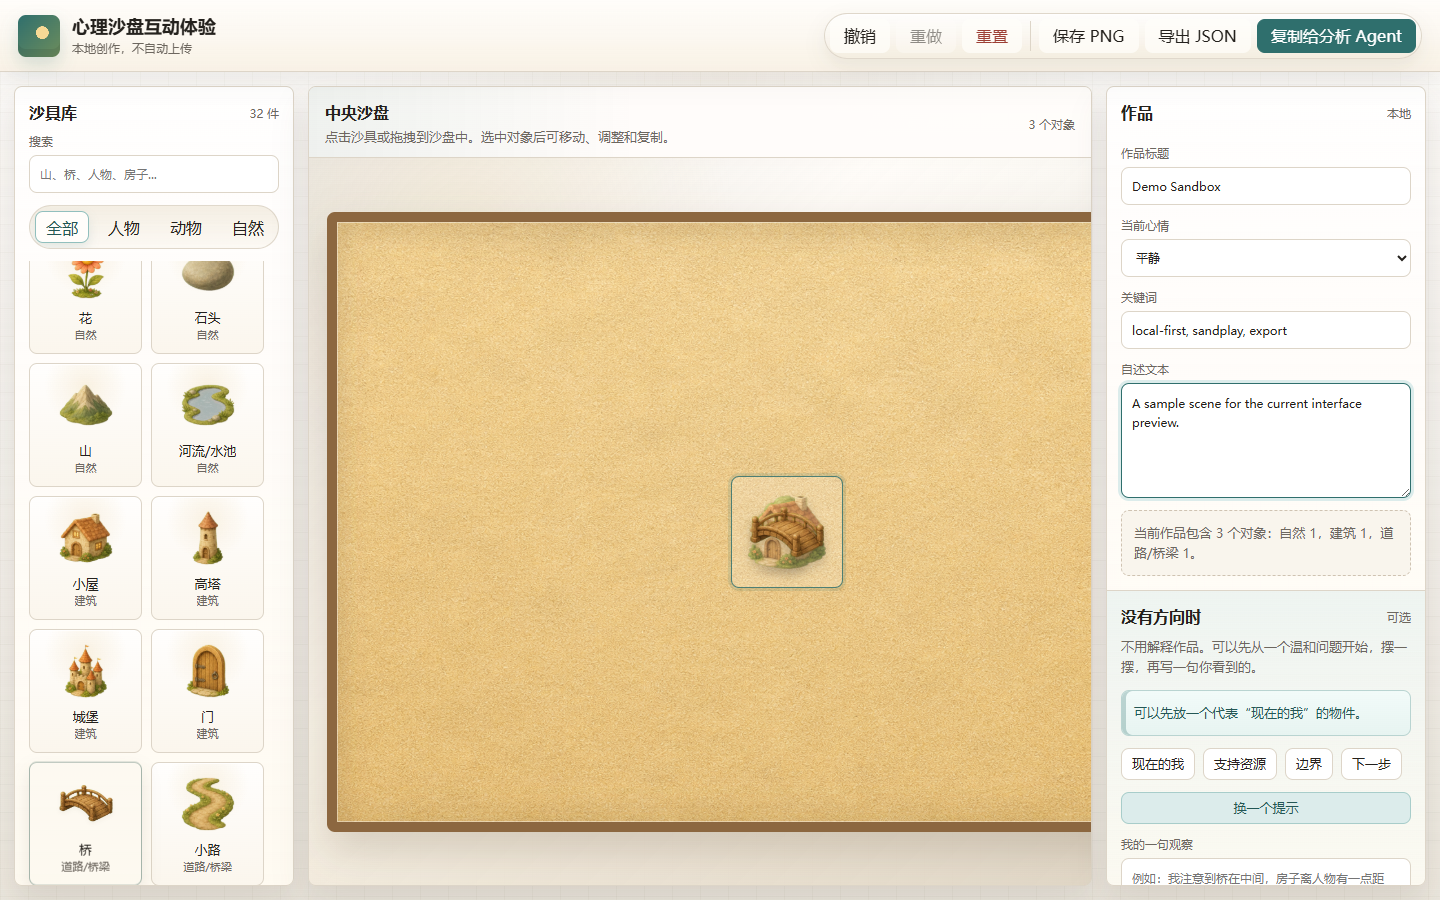
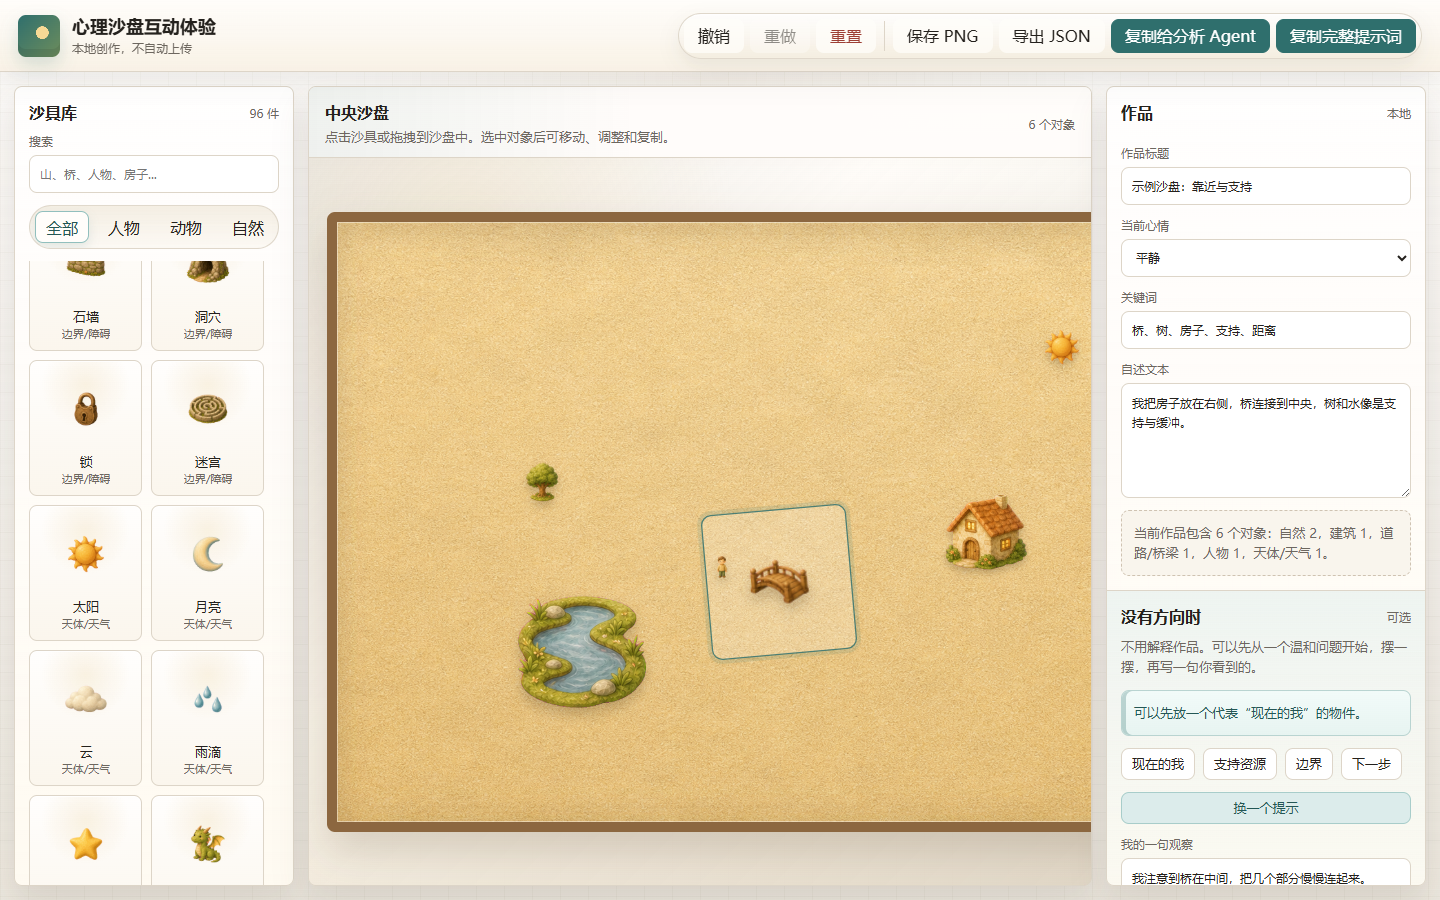
docs: update README usage guide

diff --git a/README.md b/README.md
@@ -1,31 +1,32 @@
 # 心理沙盒
 
-一个本地运行的心理沙盘互动体验。用户可以在浏览器中选择、拖拽和摆放沙具，记录作品标题、当前心情、关键词与自述文本，并主动导出 PNG 截图、JSON 布局、复制给分析 Agent 的提交文本或复制完整提示词。
+一个可以直接在本地浏览器运行的心理沙盘互动工具。你可以选择沙具、拖拽摆放、记录当下感受，然后把沙盘截图和提示词一起交给 GPT、ChatGPT 或其他支持图片理解的 AI，获得一份非诊断式的观察与反思引导。
 
 > 本项目用于自我表达、情绪觉察和心理教育场景，不提供心理诊断、心理治疗、医疗建议或危机干预。
 
 ![心理沙盒界面预览](./sandplay-wide-optimized.png)
 
-## 项目特点
+## 最简单的使用方法
 
-- 本地单页应用：不需要后端服务，不需要数据库。
-- 虚拟沙盘创作：支持沙具分类筛选、搜索、点击添加和拖拽添加。
-- 沙具编辑：支持移动、缩放、旋转、翻转、复制、删除、置顶和置底。
-- 作品记录：支持填写标题、心情、关键词、自述文本和一句观察。
-- 主动导出：支持保存沙盘 PNG、导出 JSON、复制分析 Agent 文本、复制完整提示词。
-- 隐私优先：页面不会自动上传截图、文本或布局数据。
+![心理沙盒使用流程](./sandplay-interactive/docs/readme-workflow.svg)
 
-## 快速开始
+1. 双击打开 `sandplay-interactive/index.html`。
+2. 在浏览器里摆放沙具，并按需填写作品标题、当前心情、关键词和自述文本。
+3. 点击顶部工具栏的 `保存 PNG`，下载沙盘截图。
+4. 点击 `复制完整提示词`。如果你已经有自己的分析提示词，也可以点击 `复制给分析 Agent`。
+5. 打开 GPT、ChatGPT 或其他支持图片理解的 AI，把 PNG 图片上传，并把复制的提示词粘贴进去发送。
 
-项目主体位于 `sandplay-interactive/`。
+整个过程都在本地完成。网页不会自动上传截图、文字或布局数据。
 
-最简单的方式是直接用浏览器打开：
+## 如何运行
+
+推荐方式：直接双击打开：
 
 ```text
 sandplay-interactive/index.html
 ```
 
-也可以启动一个本地静态服务器：
+如果浏览器限制本地文件读取，或你想用本地静态服务运行：
 
 ```bash
 cd sandplay-interactive
@@ -38,50 +39,67 @@ python -m http.server 8000
 http://localhost:8000
 ```
 
-## 使用方法
+当前应用没有构建步骤，不需要后端服务、不需要数据库，也不需要 OpenAI API Key。
 
-1. 打开页面后阅读欢迎弹窗中的玩法说明和安全边界。
-2. 在左侧沙具库中选择分类，或通过搜索找到需要的沙具。
-3. 点击沙具或将沙具拖拽到中央沙盘。
-4. 选中沙盘中的物件后，可在右侧调整名称、大小、旋转、翻转和层级。
-5. 在右侧填写作品标题、当前心情、关键词和自述文本。
-6. 使用顶部工具栏保存 PNG、导出 JSON，或复制给分析 Agent 的文本/完整提示词。
+## 你可以用它做什么
 
-## 导出内容
+- 在虚拟沙盘中选择、搜索、点击添加或拖拽添加沙具。
+- 对沙盘物件进行移动、缩放、旋转、翻转、复制、删除、置顶和置底。
+- 记录作品标题、当前心情、关键词、自述文本和一句观察。
+- 主动导出沙盘 PNG、导出 JSON 布局、复制分析文本或复制完整提示词。
+- 将 PNG 和提示词交给 AI，让 AI 基于截图和文字生成温和的观察报告。
 
-### PNG 截图
+## 导出内容说明
 
-点击 `保存 PNG` 后会下载沙盘区域截图，文件名格式如下：
+### 保存 PNG
+
+点击 `保存 PNG` 后，会下载中央沙盘区域截图，文件名格式为：
 
 ```text
 sandplay-YYYYMMDD-HHMMSS.png
 ```
 
-截图只包含中央沙盘，不包含侧栏、工具栏或作品文字。
+截图只包含沙盘，不包含左右侧栏、顶部工具栏或作品文字。
 
-### JSON 布局
+### 复制提示词
 
-点击 `导出 JSON` 后会导出当前作品文本与沙盘对象布局，适合后续存档、调试或二次处理。
+- `复制完整提示词`：复制用户提交内容，并追加项目内置的完整分析 Agent 提示词。推荐直接粘贴到 GPT、ChatGPT 等 AI 中使用。
+- `复制给分析 Agent`：只复制作品信息、用户自述、观察方向和安全边界。适合你已经在 AI 端配置过分析 Agent 的情况。
 
-### 分析 Agent 文本
+### 导出 JSON
 
-点击 `复制给分析 Agent` 后会复制一段中文提交文本，包含作品信息、用户自述、引导观察和安全边界。用户需要自行决定是否提交给外部 Agent 或其他工具，网页不会自动发送。
+点击 `导出 JSON` 后，会导出当前作品文字和沙盘对象布局。它适合存档、调试或后续二次处理；普通使用只需要 PNG 和提示词即可。
 
-点击 `复制完整提示词` 后会复制用户提交内容，并追加 `agent-skill/sandplay-analysis-agent-prompt.md` 的完整 Agent Skill 内容，方便直接粘贴到网页端使用。
+## 适用边界
 
-## 目录结构
+适合：
+
+- 自我表达、情绪觉察、心理教育活动后的个人反思。
+- 把“难以直接说清楚的感受”先转成可观察的画面。
+- 与 AI 一起获得开放式问题、画面观察和温和的下一步建议。
+
+不适合：
+
+- 心理诊断、心理治疗、人格判定或医疗建议。
+- 危机干预或替代现实中的专业支持。
+- 把 AI 的分析当作确定结论。
+
+如果作品或对话中出现自伤、伤人、严重痛苦或现实危险，请优先联系当地紧急服务、危机热线、专业心理工作者或身边可信任的人。
+
+## 项目结构
 
 ```text
 .
-├── sandplay-interactive/       # 单页前端应用
-│   ├── index.html              # 页面入口
-│   ├── app.js                  # 沙盘交互逻辑
-│   ├── styles.css              # 页面样式
-│   ├── assets/                 # 沙具资源与 manifest
-│   ├── agent-skill/            # 分析 Agent 提示词
-│   ├── docs/                   # 产品、安全、QA 与 UX 文档
-│   └── tests/                  # Playwright 测试
-└── sandplay-wide-optimized.png # GitHub 预览图
+├── sandplay-interactive/              # 单页前端应用
+│   ├── index.html                     # 页面入口，双击即可打开
+│   ├── app.js                         # 沙盘交互、导出和复制逻辑
+│   ├── styles.css                     # 页面样式
+│   ├── assets/                        # 沙具图片资源与 manifest
+│   ├── agent-skill/                   # 分析 Agent 完整提示词
+│   ├── docs/                          # 产品、安全、QA、UX 和 README 图片素材
+│   └── tests/                         # Playwright 测试
+├── sandplay-wide-optimized.png        # README 主界面示意图
+└── start_prompt.md                    # 项目启动提示记录
 ```
 
 ## 开发与测试
@@ -93,33 +111,29 @@ cd sandplay-interactive
 npm install
 ```
 
-运行 Playwright 测试：
+运行测试：
 
 ```bash
 npm test
 ```
 
-当前应用没有构建步骤，核心功能由原生 HTML、CSS 和 JavaScript 实现。
+如果本机没有 Playwright 浏览器二进制，可以先安装：
 
-## 安全与隐私
+```bash
+npx playwright install
+```
 
-- 本工具不是心理诊断、心理治疗或医疗建议工具。
-- 任何后续分析只能作为自我反思和心理教育参考。
-- 如果用户出现自伤、伤人、严重痛苦或危机风险，应联系当地紧急服务、危机热线、专业心理工作者或身边可信任的人。
+## 隐私与安全
+
 - 图片、文字和布局数据默认只在本地浏览器中处理。
-- 用户需要主动下载截图、导出 JSON 或复制文本。
+- 保存 PNG、导出 JSON、复制文本都需要用户主动点击。
+- 网页不会自动上传作品，也不会自动发送给任何 AI 服务。
+- 本工具不是心理诊断、心理治疗或医疗建议工具。
+- AI 的回复只能作为自我反思和心理教育参考。
 
 ## 已知限制
 
 - 刷新页面会丢失当前作品，当前版本没有本地历史记录。
 - 移动端支持基础操作，但复杂排布更适合平板或桌面浏览器。
-- 前端目前内置一组可用沙具，完整资源包和动态加载能力仍可继续扩展。
 - 撤销和重做只保存在当前页面内存中。
-
-## 后续方向
-
-- 增加本地作品历史。
-- 增加主持人或团体活动模式。
-- 增加多套沙具风格资源包。
-- 优化移动端与无障碍体验。
-- 扩展分析 Agent 的非诊断式回顾工作流。
+- 前端当前内置一组可用沙具，后续仍可扩展更多资源包和动态加载能力。

diff --git a/sandplay-interactive/README.md b/sandplay-interactive/README.md
@@ -1,52 +1,53 @@
 # 心理沙盘互动体验
 
-一个本地运行的单页前端应用。用户可以在虚拟沙盘中选择、拖拽、摆放沙具，写下作品标题、当前感受、关键词和自述文本，然后主动保存截图、导出 JSON，或复制提交给分析 Agent Skill 的说明文本。
+这是项目的前端应用目录。应用是一个本地运行的单页页面，用于摆放心理沙盘、保存 PNG 截图、复制提示词，并由用户自行把截图和提示词提交给 GPT、ChatGPT 或其他支持图片理解的 AI。
 
-本项目用于自我表达与情绪觉察，不提供心理诊断、心理治疗或医疗建议。
+> 本工具用于自我表达与情绪觉察，不提供心理诊断、心理治疗或医疗建议。
 
-## 如何运行
+## 最短使用流程
 
-直接用浏览器打开 `index.html` 即可运行：
+![心理沙盘使用流程](./docs/readme-workflow.svg)
+
+1. 双击打开 `index.html`。
+2. 在浏览器中选择沙具，拖拽或点击添加到中央沙盘。
+3. 按需填写作品标题、当前心情、关键词、自述文本和一句观察。
+4. 点击 `保存 PNG` 下载沙盘截图。
+5. 点击 `复制完整提示词`，然后把 PNG 和提示词一起发给 GPT 等 AI。
+
+网页不会自动上传作品，所有发送动作都由用户自己决定。
+
+## 运行方式
+
+直接打开：
 
 ```text
-sandplay-interactive/index.html
+index.html
 ```
 
-也可以在项目目录启动静态服务器：
+如果浏览器限制本地文件读取，可以启动静态服务：
 
 ```bash
 python -m http.server 8000
 ```
 
-然后访问 `http://localhost:8000`。基础功能不依赖后端、不依赖构建工具、不需要真实 OpenAI API。
+然后访问：
 
-## 功能列表
+```text
+http://localhost:8000
+```
 
-- 欢迎/引导模态框，包含玩法说明、安全边界和免责声明。
-- 左侧沙具库，支持分类筛选、搜索、点击添加和拖拽添加。
-- 中央虚拟沙盘，支持选中、移动、键盘微调和触控指针操作。
-- 对象属性：名称、类别、位置、大小、旋转、层级、水平翻转。
-- 对象操作：缩放、旋转、翻转、复制、删除、置顶、置底。
-- 顶部工具栏：撤销、重做、重置、保存 PNG、导出 JSON、复制分析 Agent 文本、复制完整提示词。
-- 右侧作品信息：作品标题、当前心情、关键词、自述文本。
-- 轻量引导面板：在用户没有方向时提供一个温和起点和一句观察记录。
-- PNG 截图只导出沙盘区域。
-- JSON 导出包含作品文本和沙盘对象布局。
-- 不自动上传截图、文本或布局数据。
+基础功能不依赖后端、不依赖构建工具，也不需要真实 OpenAI API。
 
-## 替换 ImageGen 正式资源
+## 核心功能
 
-当前前端使用 `assets/generated/` 中的 ImageGen 生成 PNG 资源。`assets/placeholders/` 中的 SVG 仅作为 fallback/reference 保留。
+- 沙具库：分类筛选、搜索、点击添加、拖拽添加。
+- 中央沙盘：选中、移动、键盘微调、滚轮缩放和触控操作。
+- 对象编辑：名称、大小、旋转、水平翻转、复制、删除、置顶、置底。
+- 作品信息：标题、当前心情、关键词、自述文本、一句观察。
+- 导出操作：保存 PNG、导出 JSON、复制分析 Agent 文本、复制完整提示词。
+- 隐私边界：不自动上传截图、文本或布局数据。
 
-替换步骤：
-
-1. 使用 `imagegen-prompts/style-guide.md` 中的统一风格要求生成透明背景 PNG。
-2. 将生成的资源放入 `assets/generated/` 或新的资源包目录。
-3. 更新 `assets/manifest.json` 中对应物件的 `placeholderSrc`。
-4. 需要批量补图时，按 `imagegen-prompts/supplement-generation-batches.json` 或同名 Markdown 文件中的 16 个一批执行。
-5. 如需让前端直接使用更多正式资源，可在 `app.js` 的 `ASSETS` 数组中增加条目或改为加载 manifest。
-
-## 保存截图
+## 保存 PNG
 
 点击顶部工具栏的 `保存 PNG`。文件名格式为：
 
@@ -56,38 +57,57 @@ sandplay-YYYYMMDD-HHMMSS.png
 
 截图只包含沙盘区域，不包含侧栏、工具栏或作品文本。
 
-## 复制给分析 Agent
+## 复制提示词
 
-点击 `复制给分析 Agent` 后，应用会复制一段中文提交文本，包含：
+- `复制完整提示词`：复制作品信息，并追加 `agent-skill/sandplay-analysis-agent-prompt.md` 的完整 Agent Skill 内容。推荐直接粘贴到网页端 AI 中使用。
+- `复制给分析 Agent`：复制较短的提交文本，适合已经在 AI 端配置好分析 Agent 的情况。
 
-- 作品标题
-- 当前心情
-- 关键词
-- 用户自述
-- 引导提示和用户的一句观察
-- 希望分析 Agent 关注的方向
-- 安全边界
-- 截图需由用户主动上传的说明
+用户需要自行将 PNG 截图和复制文本提交给外部 AI。网页不会自动发送给任何服务。
 
-用户需要自行将截图和文本提交给预设分析 Agent Skill。网页不会自动发送给任何服务。
+## 替换 ImageGen 资源
 
-点击 `复制完整提示词` 后，应用会复制上述用户提交内容，并追加 `agent-skill/sandplay-analysis-agent-prompt.md` 的完整 Agent Skill 内容，方便直接粘贴到网页端使用。通过静态服务打开页面时会优先读取该 Markdown 文件；直接打开 `index.html` 时会使用前端内置的同版内容。
+当前前端使用 `assets/generated/` 中的 ImageGen 生成 PNG 资源。`assets/placeholders/` 中的 SVG 仅作为 fallback/reference 保留。
 
-## 安全与隐私说明
+替换步骤：
+
+1. 使用 `imagegen-prompts/style-guide.md` 中的统一风格要求生成透明背景 PNG。
+2. 将生成的资源放入 `assets/generated/` 或新的资源包目录。
+3. 更新 `assets/manifest.json` 中对应物件的 `placeholderSrc`。
+4. 需要批量补图时，按 `imagegen-prompts/supplement-generation-batches.json` 或同名 Markdown 文件执行。
+5. 如需让前端直接使用更多正式资源，可在 `app.js` 的 `ASSETS` 数组中增加条目，或改为动态加载 manifest。
+
+## 开发与测试
+
+安装依赖：
+
+```bash
+npm install
+```
+
+运行 Playwright 测试：
+
+```bash
+npm test
+```
+
+如果本机缺少 Playwright 浏览器二进制：
+
+```bash
+npx playwright install
+```
+
+## 安全与隐私
 
 - 本工具不是心理诊断、心理治疗或医疗建议工具。
-- 任何后续分析只能用于自我反思和心理教育。
-- 若用户出现自伤、伤人、严重痛苦或危机风险，应联系当地紧急服务、危机热线、专业心理工作者或身边可信任的人。
+- AI 回复只能作为自我反思和心理教育参考。
 - 图片、文字和布局数据默认只在本地浏览器中处理。
 - 用户需要主动下载截图、导出 JSON 或复制文本。
 - 前端不会自动上传作品，也不会收集真实姓名、联系方式、年龄、病史等敏感信息。
+- 若用户出现自伤、伤人、严重痛苦或危机风险，应联系当地紧急服务、危机热线、专业心理工作者或身边可信任的人。
 
 ## 已知限制
 
-- 当前前端使用 32 个 ImageGen PNG 沙具；`assets/manifest.json` 已扩展到 96 个物件规划，其中新增与未生成物件按 4 批、每批 16 个在 `imagegen-prompts/supplement-generation-batches.*` 中管理。
-- 不同沙具已有不同默认尺寸和缩放范围，例如树、山、房屋、城堡会比人物更大，鸟、灯、心形等会更小。
-- 选中沙盘对象后，可在沙盘区域使用鼠标滚轮缩放；按住 Shift 滚动会使用更细的缩放步进。
-- 前端内置了一组可用沙具；后续可改为动态加载完整 manifest。
-- 没有后端会话历史，刷新页面会丢失当前作品。
+- 刷新页面会丢失当前作品，当前版本没有本地历史记录。
 - 移动端支持基础操作，但复杂排布更适合平板或桌面浏览器。
 - 撤销/重做保存在内存中，不会跨页面刷新保留。
+- 前端内置了一组可用沙具；后续可改为动态加载完整 manifest。
